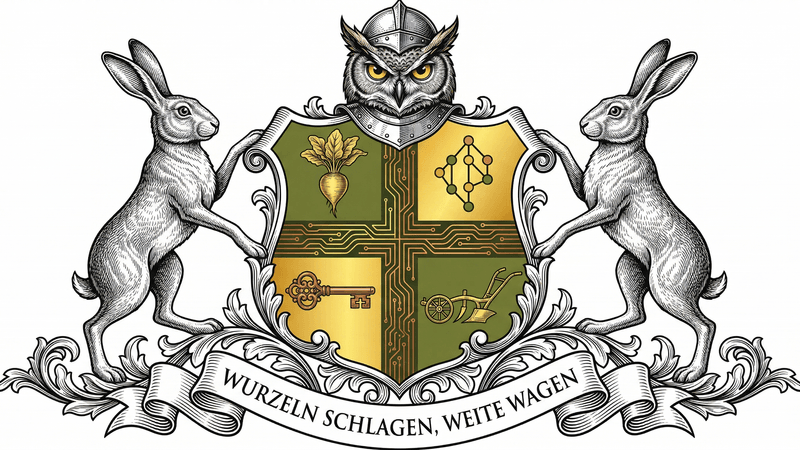
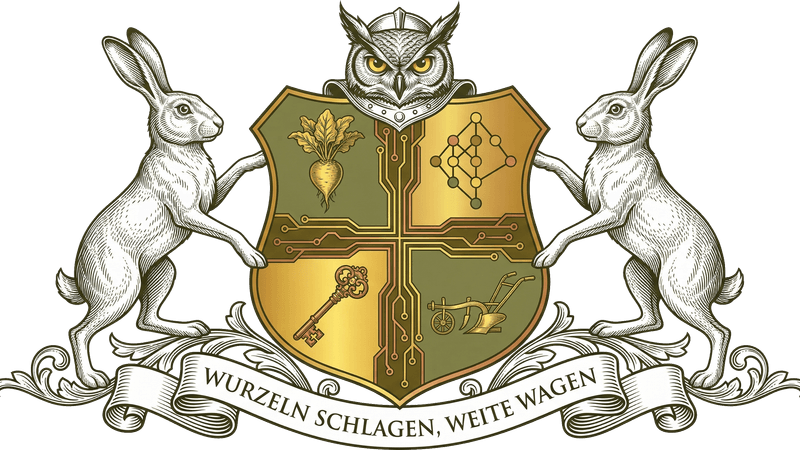
Replace hero image with transparent version
Update landing page hero image to use new transparent.png:

CHANGES:
✓ wappen/transparent.png - Added source file
✓ scripts/optimize-images.js - Updated to use transparent.png as hero
✓ public/wappen/hero.webp - Regenerated (113.6KB)
✓ public/wappen/hero.png - Regenerated (148.0KB)

OPTIMIZATION STATS:
- Hero WebP: 113.6KB (slightly larger, better transparency)
- Hero PNG: 148.0KB (fallback)
- Total optimized size: 1.40MB (98% reduction)
- Build time: 979ms

The transparent hero image displays beautifully on the landing page
while maintaining excellent compression ratios through WebP/PNG.

diff --git a/scripts/optimize-images.js b/scripts/optimize-images.js
@@ -14,7 +14,7 @@ if (!fs.existsSync(publicWappenDir)) {
 
 // Define unique variations (skip duplicates)
 const variations = [
-  'Gemini_Generated_Image_e9ia85e9ia85e9ia.png', // Hero: variation 2
+  'transparent.png', // Hero: transparent version
   'Gemini_Generated_Image_3hoo6t3hoo6t3hoo.png', // Gallery: 1
   'Gemini_Generated_Image_ev5e0mev5e0mev5e.png', // Gallery: 2
   'Gemini_Generated_Image_g2vqxdg2vqxdg2vq.png', // Gallery: 3
